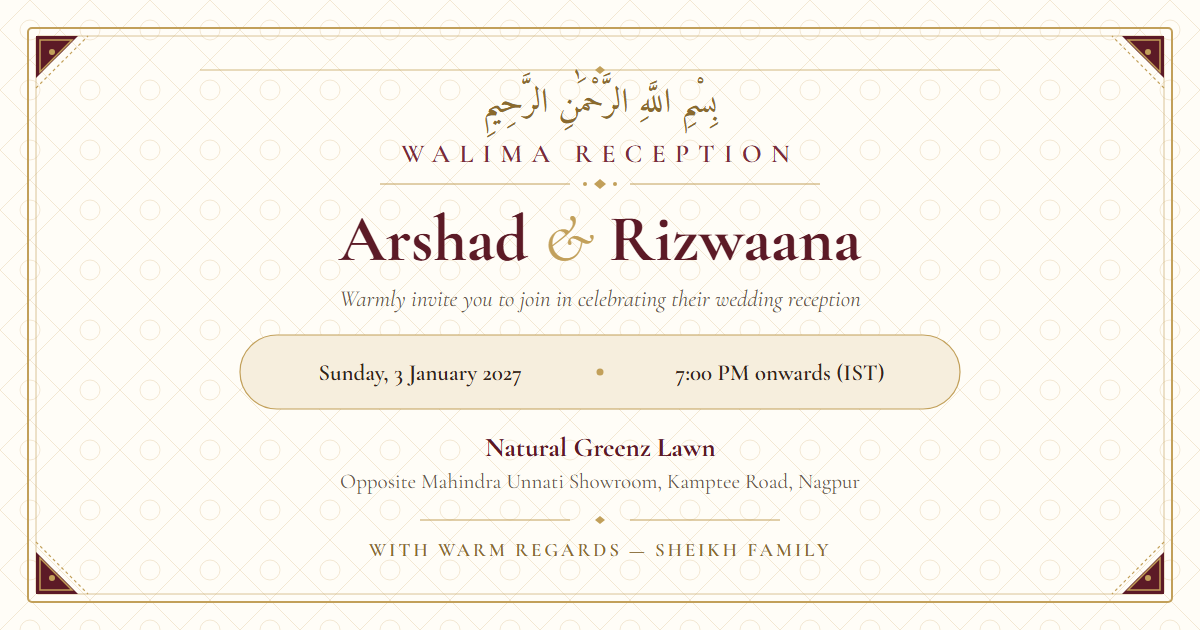
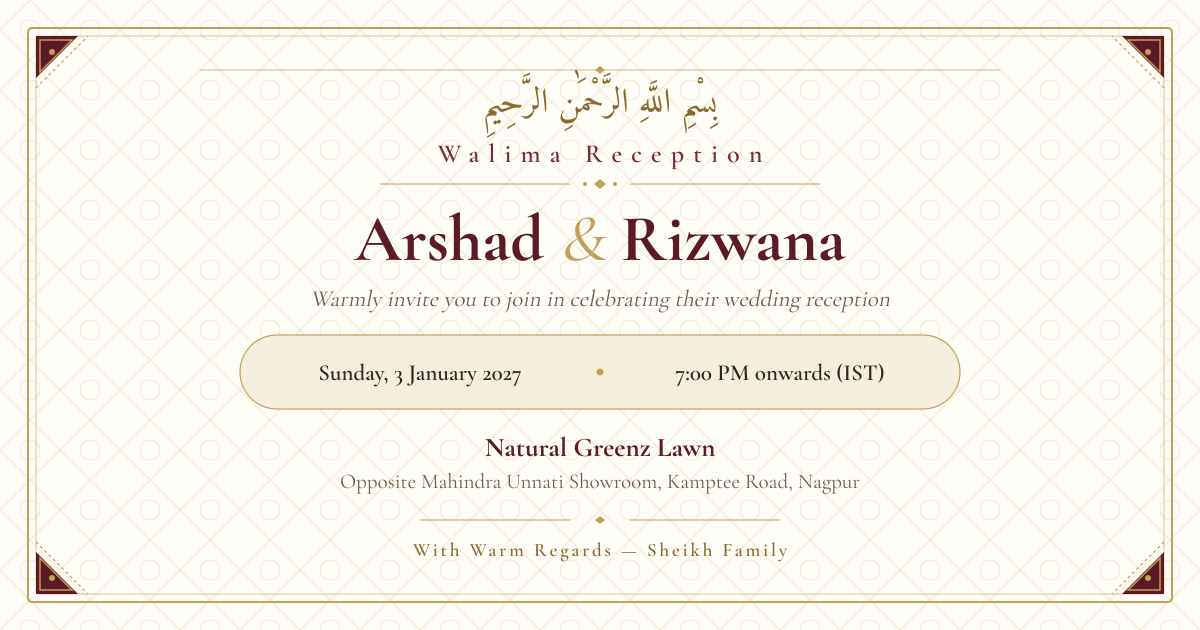
fix: correct spelling of Rizwana across invitation, metadata, and preview assets

diff --git a/index.html b/index.html
@@ -19,9 +19,9 @@
   ============================================================================
 -->
 
- <title>Walima Reception — Arshad &amp; Rizwaana | 3 January 2027, Nagpur</title>
+ <title>Walima Reception — Arshad &amp; Rizwana | 3 January 2027, Nagpur</title>
  <meta name="description"
-  content="You are warmly invited to the Walima Reception of Arshad (son of Late Mohammad Abid Sheikh) &amp; Rizwaana on Sunday, 3 January 2027 at 7:00 PM at Natural Greenz Lawn, Kamptee Road, Nagpur. Hosted by the Sheikh Family.">
+  content="You are warmly invited to the Walima Reception of Arshad (son of Late Mohammad Abid Sheikh) &amp; Rizwana on Sunday, 3 January 2027 at 7:00 PM at Natural Greenz Lawn, Kamptee Road, Nagpur. Hosted by the Sheikh Family.">
  <meta name="theme-color" content="#5c1a26">
  <meta name="robots" content="index, follow">
 
@@ -29,10 +29,10 @@
 
  <!-- Open Graph / WhatsApp / Facebook -->
  <meta property="og:type" content="website">
- <meta property="og:site_name" content="Walima Reception — Arshad &amp; Rizwaana">
+ <meta property="og:site_name" content="Walima Reception — Arshad &amp; Rizwana">
  <meta property="og:locale" content="en_IN">
  <meta property="og:url" content="https://walima-invitation.pages.dev/">
- <meta property="og:title" content="Walima Reception — Arshad &amp; Rizwaana">
+ <meta property="og:title" content="Walima Reception — Arshad &amp; Rizwana">
  <meta property="og:description"
   content="Sunday, 3 January 2027 · 7:00 PM onwards · Natural Greenz Lawn, Kamptee Road, Nagpur. Hosted by the Sheikh Family.">
  <meta property="og:image" content="https://walima-invitation.pages.dev/assets/whatsapp-preview.jpg">
@@ -41,7 +41,7 @@
  <meta property="og:image:width" content="600">
  <meta property="og:image:height" content="600">
  <meta property="og:image:alt"
-  content="Walima Reception invitation card for Arshad and Rizwaana, Sunday 3 January 2027, Natural Greenz Lawn, Nagpur.">
+  content="Walima Reception invitation card for Arshad and Rizwana, Sunday 3 January 2027, Natural Greenz Lawn, Nagpur.">
 
  <!-- Open Graph Secondary (High-Res 1200x630 for platforms supporting landscape previews) -->
  <meta property="og:image" content="https://walima-invitation.pages.dev/assets/social-preview-1200x630.png">
@@ -52,12 +52,12 @@
 
  <!-- Twitter / X -->
  <meta name="twitter:card" content="summary_large_image">
- <meta name="twitter:title" content="Walima Reception — Arshad &amp; Rizwaana">
+ <meta name="twitter:title" content="Walima Reception — Arshad &amp; Rizwana">
  <meta name="twitter:description"
   content="Sunday, 3 January 2027 · 7:00 PM onwards · Natural Greenz Lawn, Kamptee Road, Nagpur. Hosted by the Sheikh Family.">
  <meta name="twitter:image" content="https://walima-invitation.pages.dev/assets/social-preview-1200x630.png">
  <meta name="twitter:image:alt"
-  content="Walima Reception invitation card for Arshad and Rizwaana, Sunday 3 January 2027, Natural Greenz Lawn, Nagpur.">
+  content="Walima Reception invitation card for Arshad and Rizwana, Sunday 3 January 2027, Natural Greenz Lawn, Nagpur.">
 
  <!-- Inline SVG favicon (no extra request) -->
  <link rel="icon"
@@ -93,7 +93,7 @@
 
    <h1 class="title" id="invite-title">
     <span class="title__event">Walima Reception</span>
-    <span class="title__names">Arshad <span class="title__amp">&amp;</span> Rizwaana</span>
+    <span class="title__names">Arshad <span class="title__amp">&amp;</span> Rizwana</span>
     <span class="title__parentage">(Son of Late Mohammad Abid Sheikh)</span>
    </h1>
 
@@ -146,7 +146,7 @@
         ctz=Asia/Kolkata. See README.md → "Open items before production".
       -->
     <a class="btn btn--ghost"
-     href="https://calendar.google.com/calendar/render?action=TEMPLATE&amp;text=Walima%20Reception%3A%20Arshad%20%26%20Rizwaana&amp;dates=20270103T190000%2F20270103T220000&amp;ctz=Asia%2FKolkata&amp;location=Natural%20Greenz%20Lawn%2C%20Opposite%20Mahindra%20Unnati%20Showroom%2C%20Kamptee%20Road%2C%20Nagpur%2C%20Maharashtra%2C%20India&amp;details=Walima%20Reception%20of%20Arshad%20%28son%20of%20Late%20Mohammad%20Abid%20Sheikh%29%20%26%20Rizwaana%2C%20hosted%20by%20the%20Sheikh%20Family.%207%3A00%20PM%20onwards%20%28IST%29.%20Natural%20Greenz%20Lawn%2C%20Opposite%20Mahindra%20Unnati%20Showroom%2C%20Kamptee%20Road%2C%20Nagpur%2C%20Maharashtra%2C%20India."
+     href="https://calendar.google.com/calendar/render?action=TEMPLATE&amp;text=Walima%20Reception%3A%20Arshad%20%26%20Rizwana&amp;dates=20270103T190000%2F20270103T220000&amp;ctz=Asia%2FKolkata&amp;location=Natural%20Greenz%20Lawn%2C%20Opposite%20Mahindra%20Unnati%20Showroom%2C%20Kamptee%20Road%2C%20Nagpur%2C%20Maharashtra%2C%20India&amp;details=Walima%20Reception%20of%20Arshad%20%28son%20of%20Late%20Mohammad%20Abid%20Sheikh%29%20%26%20Rizwana%2C%20hosted%20by%20the%20Sheikh%20Family.%207%3A00%20PM%20onwards%20%28IST%29.%20Natural%20Greenz%20Lawn%2C%20Opposite%20Mahindra%20Unnati%20Showroom%2C%20Kamptee%20Road%2C%20Nagpur%2C%20Maharashtra%2C%20India."
      target="_blank" rel="noopener noreferrer">
      Save to Calendar<span class="sr-only"> (opens Google Calendar in a new tab)</span>
     </a>

diff --git a/README.md b/README.md
@@ -1,6 +1,6 @@
-# Walima Reception — Arshad & Rizwaana
+# Walima Reception — Arshad & Rizwana
 
-Digital invitation card for the Walima Reception of Arshad & Rizwaana, scheduled for Sunday, 3 January 2027 at Natural Greenz Lawn, Nagpur.
+Digital invitation card for the Walima Reception of Arshad & Rizwana, scheduled for Sunday, 3 January 2027 at Natural Greenz Lawn, Nagpur.
 
 ## Features
 - **Semantic HTML5** & accessible landmarks (`main`, `article`, `time`, `dl`).
